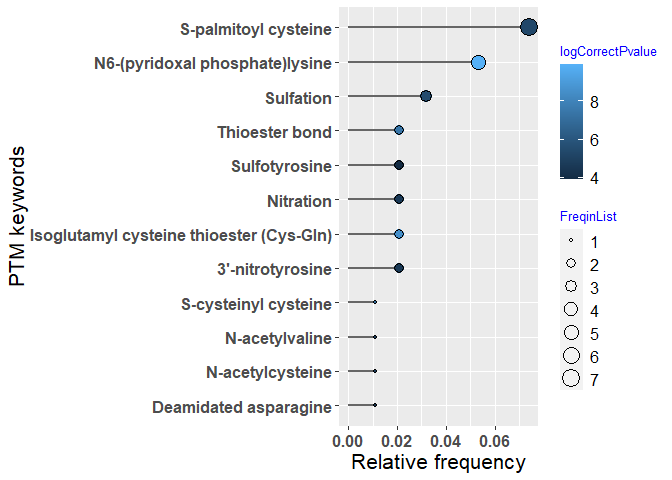
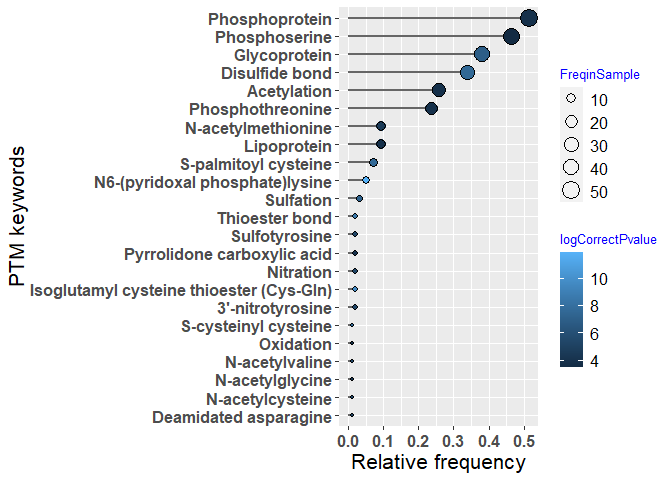
Update outpute for background list

diff --git a/README.md b/README.md
@@ -47,22 +47,7 @@ devtools::install_github("pnickchi/PEIMAN2")
 ``` r
 # Load PEIMAN2 package
 library(PEIMAN2)
-```
 
-    ## Loading required package: tidyverse
-
-    ## ── Attaching packages ─────────────────────────────────────── tidyverse 1.3.1 ──
-
-    ## ✔ ggplot2 3.4.0      ✔ purrr   0.3.4 
-    ## ✔ tibble  3.1.8      ✔ dplyr   1.0.10
-    ## ✔ tidyr   1.2.1      ✔ stringr 1.5.0 
-    ## ✔ readr   2.1.2      ✔ forcats 0.5.1
-
-    ## ── Conflicts ────────────────────────────────────────── tidyverse_conflicts() ──
-    ## ✖ dplyr::filter() masks stats::filter()
-    ## ✖ dplyr::lag()    masks stats::lag()
-
-``` r
 # First example dataset
 pl1 <- exmplData1$pl1
 
@@ -72,27 +57,27 @@ enrich1 <- runEnrichment(protein = pl1, os.name = 'Homo sapiens (Human)')
 head(enrich1, n = 6)
 ```
 
-    ##                                        PTM FreqinUniprot FreqinList Sample
-    ## 1           N6-(pyridoxal phosphate)lysine            53          5     95
-    ## 2 Isoglutamyl cysteine thioester (Cys-Gln)             7          2     95
-    ## 3                           Thioester bond            11          2     95
-    ## 4                     S-cysteinyl cysteine             3          1     95
-    ## 5                                Sulfation            57          3     95
-    ## 6                     S-palmitoyl cysteine           293          7     95
+    ##                                        PTM FreqinPopulation FreqinSample Sample
+    ## 1           N6-(pyridoxal phosphate)lysine               53            5     97
+    ## 2 Isoglutamyl cysteine thioester (Cys-Gln)                7            2     97
+    ## 3                           Thioester bond               11            2     97
+    ## 4                           Disulfide bond             3769           33     97
+    ## 5                     S-cysteinyl cysteine                3            1     97
+    ## 6                     S-palmitoyl cysteine              293            7     97
     ##   Population pvalue corrected pvalue
-    ## 1      14043  1e-06            5e-05
-    ## 2      14043  1e-05            2e-04
-    ## 3      14043  5e-05            6e-04
-    ## 4      14043  1e-04            1e-03
-    ## 5      14043  6e-04            4e-03
-    ## 6      14043  8e-04            5e-03
-    ##                                                       AC
-    ## 1                 Q96QU6; Q4AC99; Q8N5Z0; Q8NHS2; P17174
-    ## 2                                         P01023; A8K2U0
-    ## 3                                         P01023; A8K2U0
-    ## 4                                                 P01009
-    ## 5                                 P05408; P08697; P05067
-    ## 6 P28222; P41595; Q13639; P34969; P30542; P29275; P0DMS8
+    ## 1      20423  2e-07            7e-06
+    ## 2      20423  4e-06            7e-05
+    ## 3      20423  2e-05            2e-04
+    ## 4      20423  8e-05            5e-04
+    ## 5      20423  7e-05            5e-04
+    ## 6      20423  8e-05            5e-04
+    ##                                                                                                                                                                                                                                                                       AC
+    ## 1                                                                                                                                                                                                                                 Q96QU6; Q4AC99; Q8N5Z0; Q8NHS2; P17174
+    ## 2                                                                                                                                                                                                                                                         P01023; A8K2U0
+    ## 3                                                                                                                                                                                                                                                         P01023; A8K2U0
+    ## 4 P08195; P08908; P28222; P28221; P28566; P30939; P28223; P41595; P28335; P46098; O95264; Q8WXA8; A5X5Y0; Q13639; P47898; P50406; P34969; P21589; P05408; P02763; P19652; P04217; P08697; P02750; P01023; A8K2U0; P05067; P30542; P29274; P29275; P0DMS8; Q9NS82; P22760
+    ## 5                                                                                                                                                                                                                                                                 P01009
+    ## 6                                                                                                                                                                                                                 P28222; P41595; Q13639; P34969; P30542; P29275; P0DMS8
 
 ``` r
 # Second example dataset
@@ -125,20 +110,20 @@ psea_res <- runPSEA(protein = exmplData2, os.name = 'Rattus norvegicus (Rat)', n
 head(psea_res[[1]], n = 6)
 ```
 
-    ##                              PTM  pval pvaladj FreqinUniProt FreqinList
-    ## 1                    Acetylation 0e+00   0e+00          1768        123
-    ## 2             ADP-ribosylglycine 0e+00   0e+00             4          4
-    ## 3 Cysteine sulfinic acid (-SO2H) 0e+00   0e+00             1          1
-    ## 4              N-acetylaspartate 0e+00   0e+00             1          1
-    ## 5              N-acetylglutamate 0e+00   0e+00             1          1
-    ## 6                N6-acetyllysine 1e-14   1e-13           994         73
-    ##           ES        NES nMoreExtreme size      Enrichment
-    ## 1  0.7521522   1.194280            0  123     Significant
-    ## 2  0.7707317   1.540543           28    4     Significant
-    ## 3  0.9423077 -11.832636            8    1 Not significant
-    ## 4 -0.9615385  26.199741            4    1     Significant
-    ## 5 -0.9663462  14.459402            6    1     Significant
-    ## 6  0.7226249   1.128147            5   73     Significant
+    ##                              PTM pval pvaladj FreqinPopulation FreqinSample
+    ## 1                    Acetylation    0       0             1768          123
+    ## 2             ADP-ribosylglycine    0       0                4            4
+    ## 3 Cysteine sulfinic acid (-SO2H)    0       0                1            1
+    ## 4              N-acetylaspartate    0       0                1            1
+    ## 5              N-acetylglutamate    0       0                1            1
+    ## 6                N6-acetyllysine    0       0              994           73
+    ##           ES         NES nMoreExtreme size      Enrichment
+    ## 1  0.7521522    1.206495            0  123     Significant
+    ## 2  0.7707317    1.591536           23    4     Significant
+    ## 3  0.9423077 -455.813953            8    1 Not significant
+    ## 4 -0.9615385  224.719101            2    1     Significant
+    ## 5 -0.9663462  -13.729508            3    1 Not significant
+    ## 6  0.7226249    1.136379            3   73     Significant
     ##                                                                                                                                                                                                                                                                                                                                                                                                                                                                                                                                                                                                                                                                                                                                                                                                                                                                                                                                                                                                                       AC
     ## 1 P0C1X8; P11030; P60711; P63259; Q63028; Q62847; Q62848; Q9WUC4; P31399; P29419; P21571; P15999; D3ZAF6; Q9JJW3; O08839; P0DP29; P0DP30; P0DP31; P18418; P26772; P63039; B0K020; P08081; P08082; P45592; Q91ZN1; P11240; Q63768; P10715; P62898; Q9JHL4; Q7M0E3; P62628; Q07266; P84060; P62870; P15429; P07323; P60841; P56571; B0BN94; P55053; P55051; P07483; Q62658; Q32PX7; Q99PF5; Q5XI73; Q63228; P62994; P01946; P02091; P11517; P62959; P82995; P34058; P27321; Q5XI72; P50411; Q6AXU6; Q5BK20; P11980; Q99MZ8; Q792I0; Q66HF9; P15205; Q5M7W5; P02688; B0BN72; P30904; O35763; P62775; Q71UE8; Q9JJ19; P13084; Q01205; P08461; Q920Q0; O88767; P04785; P31044; O55012; P10111; Q6J4I0; Q9R063; Q9EPC6; P02625; Q63475; P51583; Q68A21; P02401; P62982; P62859; Q6RJR6; Q9JK11; Q63945; B0BN85; P07632; Q66HL2; P28042; O35814; P13668; P37377; Q62880; P19332; P68370; Q6P9V9; Q6AYZ1; Q68FR8; Q5XIF6; Q6PEC1; P11232; P62076; P62078; Q9WV97; P48500; P04692; P58775; Q63610; P09495; Q7M767; Q9Z1A5; P63045
     ## 2                                                                                                                                                                                                                                                                                                                                                                                                                                                                                                                                                                                                                                                                                                                                                                                                                                                                                                                                                                                         P62986; P62982; P0CG51; Q63429
@@ -176,22 +161,28 @@ psea2mass(x = psea_res, sig.level = 0.05)
 
     ##      MOD_ID                     name
     ## 1 MOD:00064       N6-acetyl-L-lysine
-    ## 2 MOD:00060        N-acetyl-L-serine
-    ## 3 MOD:00085       N6-methyl-L-lysine
+    ## 2 MOD:00085       N6-methyl-L-lysine
+    ## 3 MOD:00127       N6-lipoyl-L-lysine
     ## 4 MOD:00322    1'-methyl-L-histidine
     ## 5 MOD:00051 N-acetyl-L-aspartic acid
-    ## 6 MOD:00685   deamidated L-glutamine
+    ## 6 MOD:00052      N-acetyl-L-cysteine
+    ## 7 MOD:00053 N-acetyl-L-glutamic acid
+    ## 8 MOD:00685   deamidated L-glutamine
     ##                                                                                                                                                                                                                                                           def
     ## 1 "converts an L-lysine residue to N6-acetyl-L-lysine." [ChEBI:17752, DeltaMass:214, OMSSA:24, PubMed:11369851, PubMed:11857757, PubMed:11999733, PubMed:12175151, PubMed:14730666, PubMed:15350136, PubMed:1680872, PubMed:670159, RESID:AA0055, Unimod:1#K]
-    ## 2                                                    "converts an L-serine residue to N-acetyl-L-serine." [PubMed:11857757, PubMed:11999733, PubMed:12175151, PubMed:14730666, PubMed:15350136, PubMed:1880797, PubMed:2106685, PubMed:6997045, RESID:AA0051]
-    ## 3                                                                                                              "converts an L-lysine residue to N6-methyl-L-lysine." [ChEBI:17604, DeltaMass:165, PubMed:11875433, PubMed:3926756, RESID:AA0076, Unimod:34#K]
+    ## 2                                                                                                              "converts an L-lysine residue to N6-methyl-L-lysine." [ChEBI:17604, DeltaMass:165, PubMed:11875433, PubMed:3926756, RESID:AA0076, Unimod:34#K]
+    ## 3                                                                                                    "converts an L-lysine residue to N6-lipoyl-L-lysine." [DeltaMass:0, OMSSA:67, PubMed:3421911, PubMed:3522581, PubMed:7719855, RESID:AA0118, Unimod:42#K]
     ## 4                                                                                "converts an L-histidine residue to tele-methyl-L-histidine." [PubMed:10601317, PubMed:11474090, PubMed:11875433, PubMed:6692818, PubMed:8076, PubMed:8645219, RESID:AA0317]
     ## 5                                                                                                                              "converts an L-aspartic acid residue to N-acetyl-L-aspartic acid." [ChEBI:21547, PubMed:1560020, PubMed:2395459, RESID:AA0042]
-    ## 6                                                                         "converts an L-glutamine residue to L-glutamic acid." [PubMed:1881881, PubMed:4565668, PubMed:4922541, PubMed:6692818, PubMed:9192900, PubMed:957425, RESID:AA0006#GLN, Unimod:7#Q]
-    ##   FreqinList
-    ## 1         73
-    ## 2         11
-    ## 3          9
-    ## 4          2
-    ## 5          1
-    ## 6          1
+    ## 6                                                   "converts an L-cysteine residue to N-acetyl-L-cysteine." [ChEBI:28939, PubMed:11857757, PubMed:11999733, PubMed:12175151, PubMed:14730666, PubMed:1500421, PubMed:15350136, PubMed:6725286, RESID:AA0043]
+    ## 7                                                                                                                                              "converts an L-glutamic acid residue to N-acetyl-L-glutamic acid." [ChEBI:17533, PubMed:6725286, RESID:AA0044]
+    ## 8                                                                         "converts an L-glutamine residue to L-glutamic acid." [PubMed:1881881, PubMed:4565668, PubMed:4922541, PubMed:6692818, PubMed:9192900, PubMed:957425, RESID:AA0006#GLN, Unimod:7#Q]
+    ##   FreqinSample
+    ## 1           73
+    ## 2            9
+    ## 3            2
+    ## 4            2
+    ## 5            1
+    ## 6            1
+    ## 7            1
+    ## 8            1
